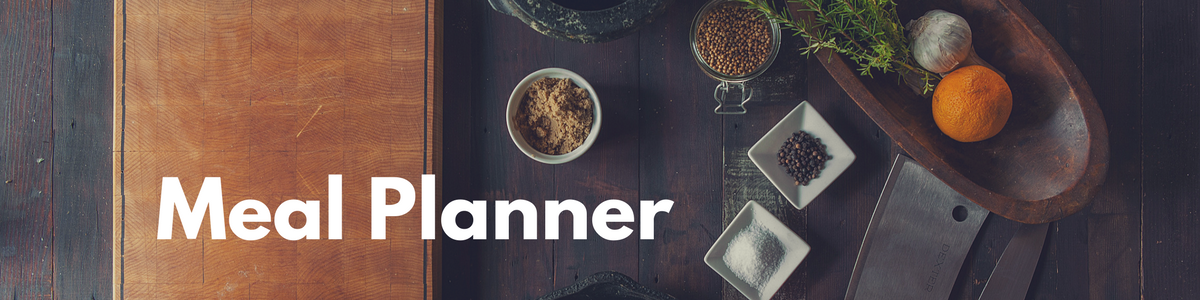
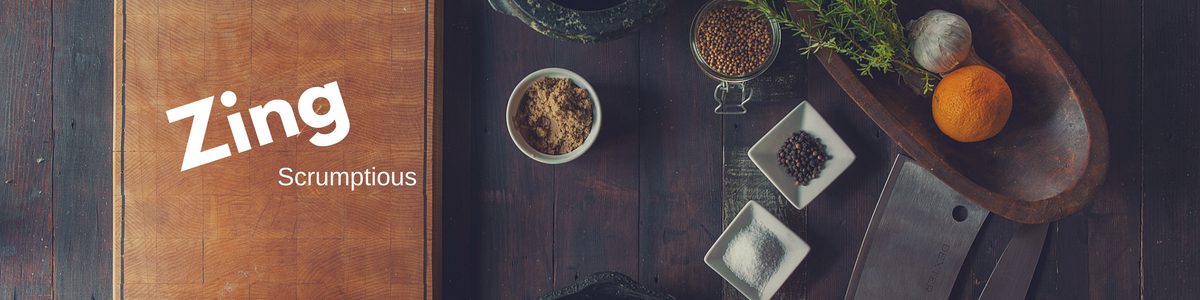
Updated the nav header with our new website name. Worked on layout of the meals page

Changed region(s): [[0.1233, 0.27, 0.5858, 0.81]]

diff --git a/Capstone.Web/DAL/MealSqlDAL.cs b/Capstone.Web/DAL/MealSqlDAL.cs
@@ -95,7 +95,7 @@ namespace Capstone.Web.DAL
                     reader.Close();
                     foreach (var meal in meals)
                     {
-                        SqlCommand cmd2 = new SqlCommand("Select recipe_name, meal_recipe.recipe_id, meal_type from recipe inner join meal_recipe on recipe.recipe_id = meal_recipe.recipe_id where meal_id = @mealIdValue", connection);
+                        SqlCommand cmd2 = new SqlCommand("Select recipe_name, meal_recipe.recipe_id, meal_type, image_name from recipe inner join meal_recipe on recipe.recipe_id = meal_recipe.recipe_id where meal_id = @mealIdValue", connection);
                         cmd2.Parameters.AddWithValue("@mealIdValue", meal.MealId);
 
                         SqlDataReader sdr = cmd2.ExecuteReader();
@@ -104,9 +104,11 @@ namespace Capstone.Web.DAL
                             meal.Recipes.Add(new MealRecipe()
                             {
                                 MealType = Convert.ToString(sdr["meal_type"]),
-                                RecipeName = Convert.ToString(sdr["recipe_name"])
+                                RecipeName = Convert.ToString(sdr["recipe_name"]), 
+                                RecipeImageName = Convert.ToString(sdr["image_name"])
 
                             });
+                            
                         }
                         sdr.Close();
                     }

diff --git a/Capstone.Web/Models/Meal.cs b/Capstone.Web/Models/Meal.cs
@@ -13,7 +13,7 @@ namespace Capstone.Web.Models
         public List<string> MealTypes { get; set; }
         public int MealId { get; set; }
         public List<string> RecipeNames { get; set; }
-        //public string MealImageName { get; set; }
+        public string MealImageName { get; set; }
         public List<MealRecipe> Recipes { get; set; } = new List<MealRecipe>(); //Read Only DO NOT USE FOR ADD AND MODIFY
 
 
@@ -22,5 +22,7 @@ namespace Capstone.Web.Models
     {
         public string RecipeName { get; set; }
         public string MealType { get; set; }
+        public string RecipeImageName { get; set; }
+
     }
 }
